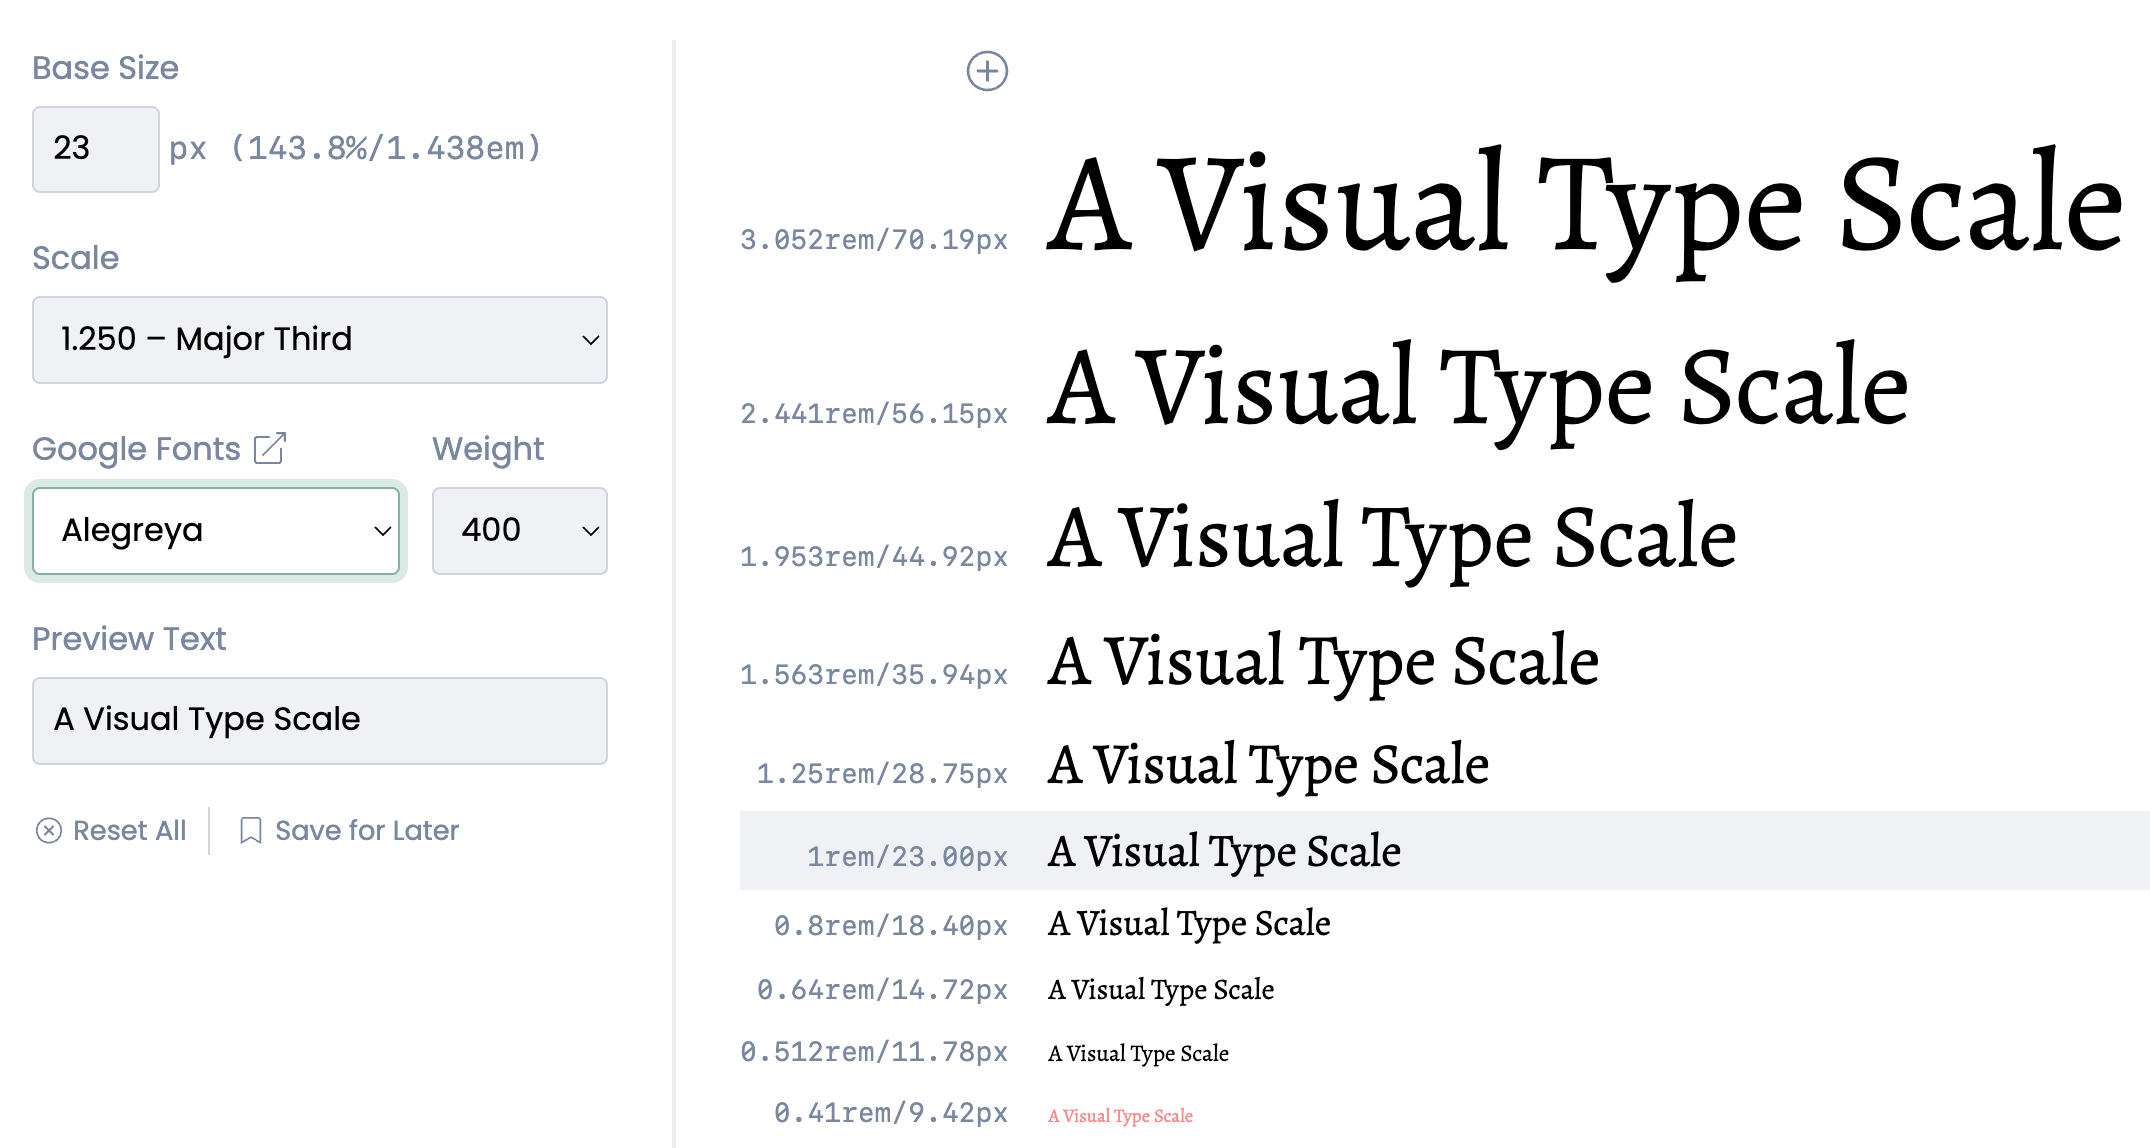
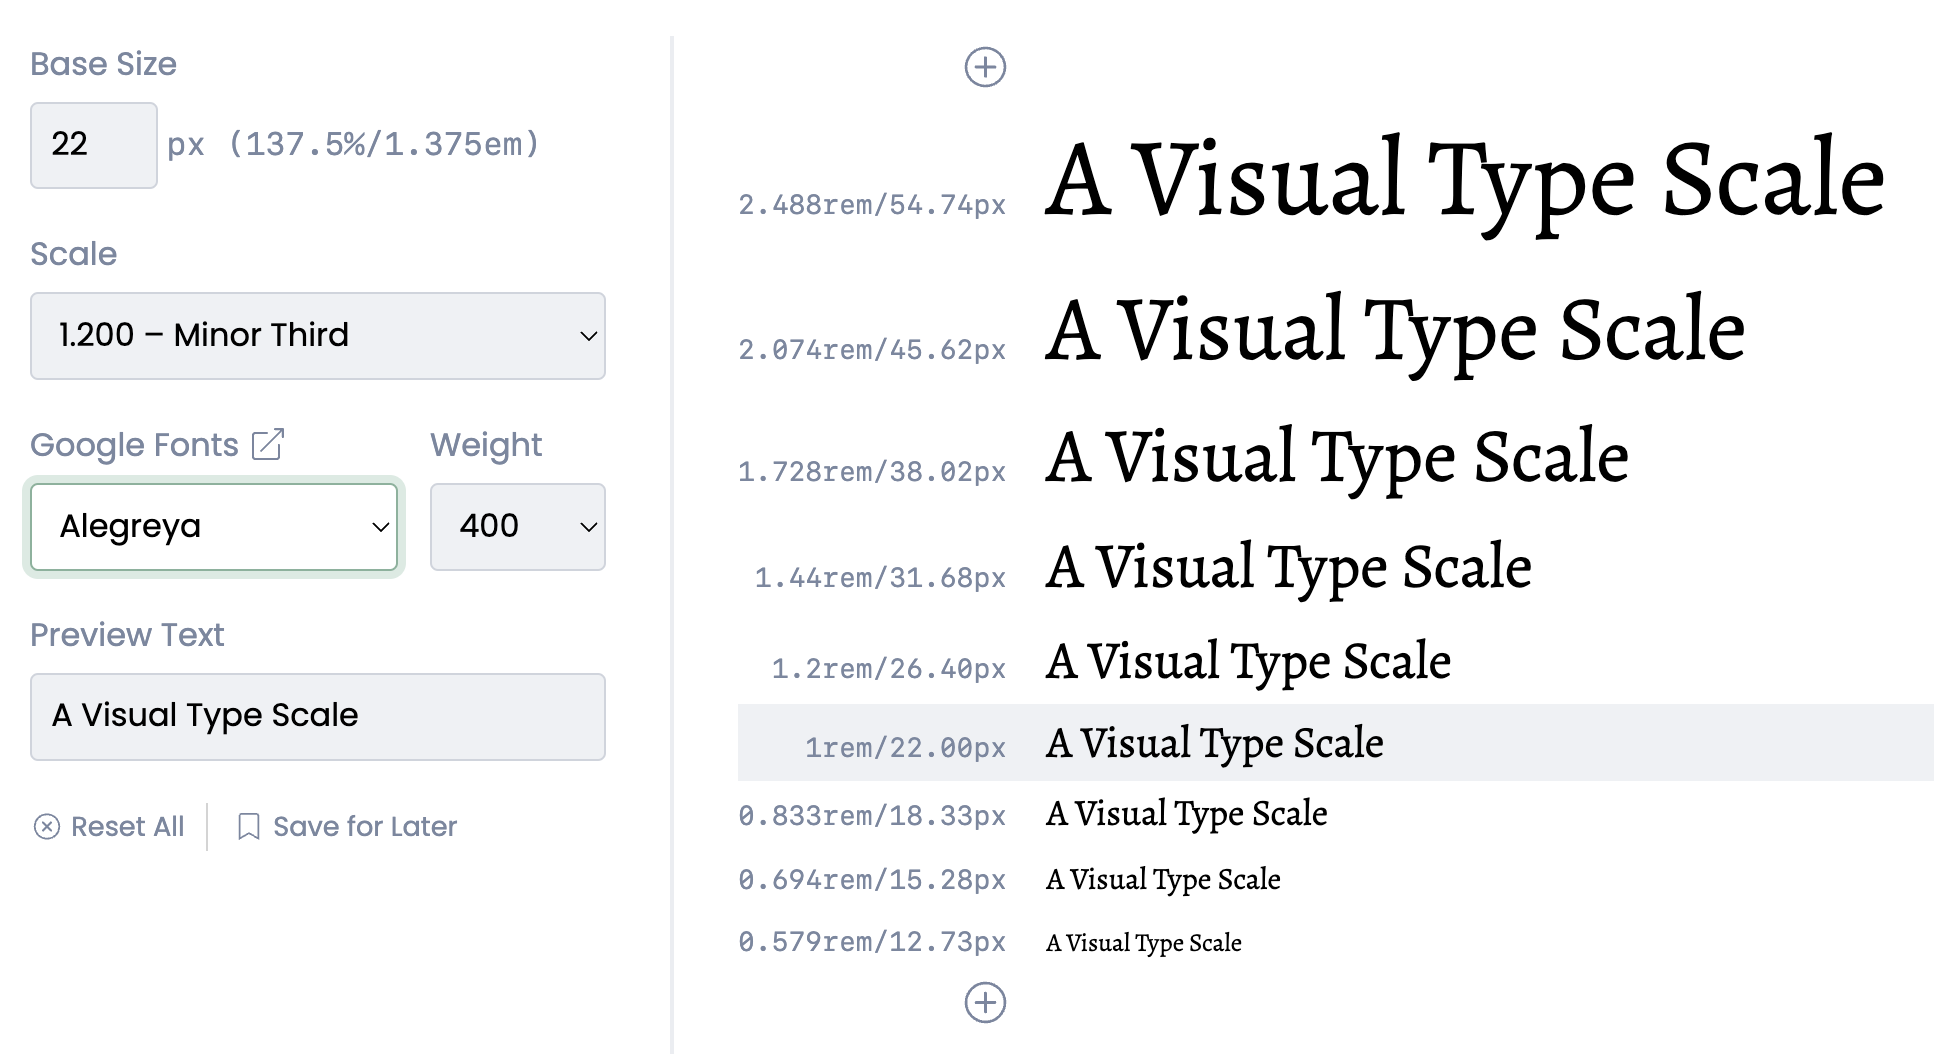
Type

diff --git a/cf_intro.html b/cf_intro.html
@@ -244,23 +244,17 @@
                 alt="Inspiration Board (mood board)">
 
             <h2>Typography</h2>
-            I used a really nice tool called type-scale.com to check sizes for two typefaces, althouth the tool uses px
-            as
-            the dimensions. If apple uses 17pt for
-            the body and 12pt = 16px that would convert to (16px/12pt) * 17pt = 23px to be entered into the calculator
-            as the body font which gives the following when using the Major Third scale. So keeping in mind the themes
-            <em>fun</em>,
-            <em>focused</em> and <em>inspirational</em> I was interested in Oswald for the headers and Alegreya for the
-            body.
+            <p>
+                Based on the themes <em>fun</em>, <em>focused</em> and <em>inspirational</em>, I did some research and
+                selected Alegreya for the headers and Source Sans Pro for the body. I used type-scale.com and the Apple
+                Human Interface guidelines to select preliminary typeface sizes. In type-scale.com I used the Minor
+                Third
+                Scale and selected a base size of 19 for Alegreya (because it runs slightly small) and 18px for Source
+                Sans
+                Pro.
+            </p>
+            <img class="image-100" src="img/ui-productivity/typography.png" alt="Typography">
 
-            <h3>Oswald</h3>
-            This is the Oswald typeface with 17pt (23px) body size and Major Third scale according to type-scale.com.
-            <img class="image-50" src="img/ui-productivity/typography-choice-1.png" alt="Oswald Typeface"
-                style="margin-left: auto; margin-right: auto; display: block; padding-top: 5%;">
-            <h3>Alegreya Typeface</h3>
-            This is the Alegreya typeface with 17pt (23px) body size and Major Third scale according to type-scale.com.
-            <img class="image-50" src="img/ui-productivity/typography-choice-2.png" alt="Alegreya Typeface"
-                style="margin-left: auto; margin-right: auto; display: block; padding-top: 5%;">
 
         </main>
 
